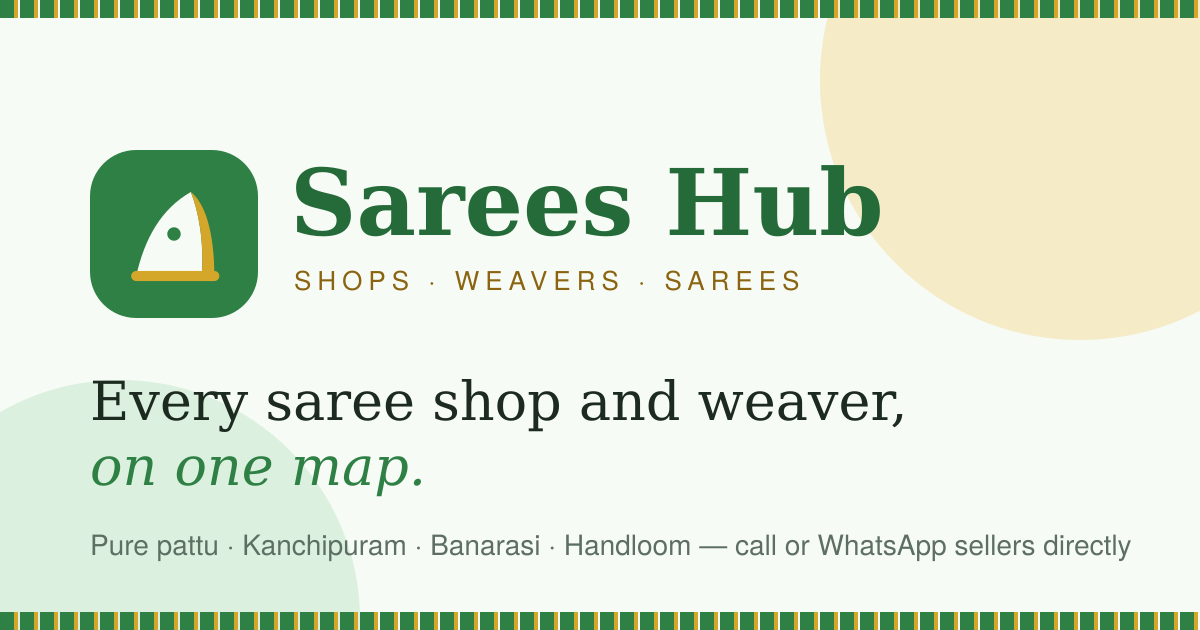
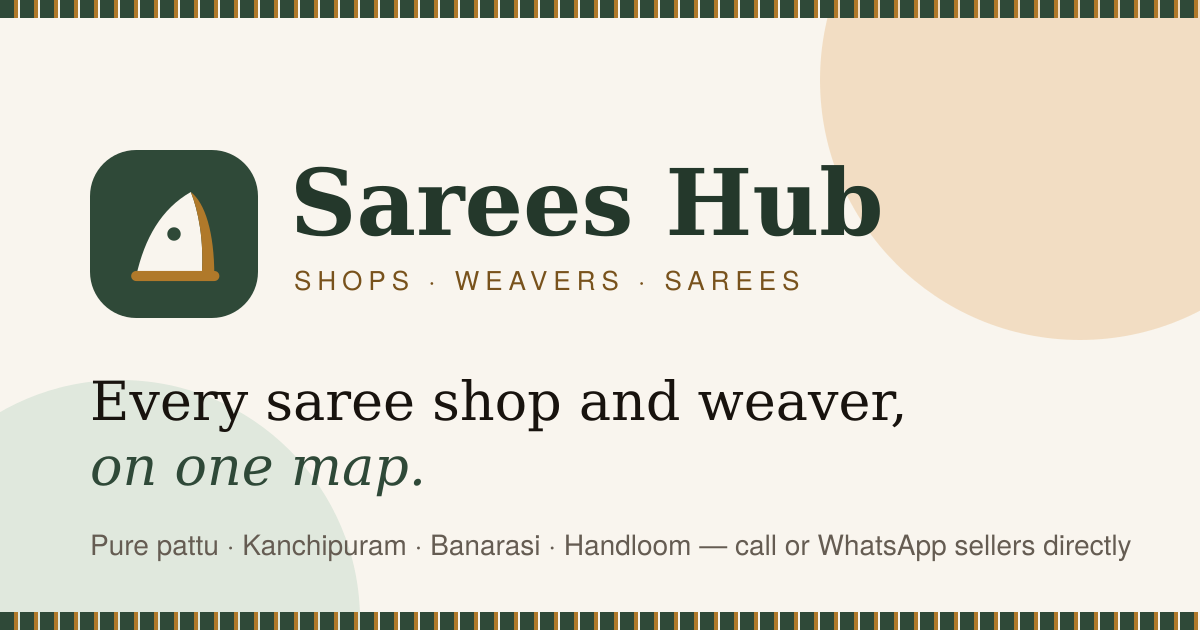
Use the original Sarees Hub colours: paper, ink header, zari gold, forest green
Claude-Session: https://claude.ai/code/session_01Cak13G2zKg7fVSXKVqJPa3

diff --git a/src/components/islands/MapExplorer.tsx b/src/components/islands/MapExplorer.tsx
@@ -178,11 +178,11 @@ export default function MapExplorer() {
           source: "shops",
           filter: ["has", "point_count"],
           paint: {
-            "circle-color": "#2f8045",
+            "circle-color": "#2f4938",
             "circle-opacity": 0.9,
             "circle-radius": ["step", ["get", "point_count"], 18, 10, 24, 50, 32],
             "circle-stroke-width": 3,
-            "circle-stroke-color": "#f0cf74",
+            "circle-stroke-color": "#e6b374",
           },
         });
         map.addLayer({
@@ -191,7 +191,7 @@ export default function MapExplorer() {
           source: "shops",
           filter: ["has", "point_count"],
           layout: { "text-field": ["get", "point_count_abbreviated"], "text-size": 13, "text-font": ["Noto Sans Bold"] },
-          paint: { "text-color": "#f7fbf5" },
+          paint: { "text-color": "#f9f5ee" },
         });
         map.addLayer({
           id: "shop-points",
@@ -199,7 +199,7 @@ export default function MapExplorer() {
           source: "shops",
           filter: ["!", ["has", "point_count"]],
           paint: {
-            "circle-color": ["case", ["==", ["get", "featured"], 1], "#d4a62a", "#2f8045"],
+            "circle-color": ["case", ["==", ["get", "featured"], 1], "#b0792a", "#2f4938"],
             "circle-radius": ["interpolate", ["linear"], ["zoom"], 5, 6, 14, 10],
             "circle-stroke-width": 2.5,
             "circle-stroke-color": "#ffffff",
@@ -210,7 +210,7 @@ export default function MapExplorer() {
           type: "circle",
           source: "shops",
           filter: ["==", ["get", "id"], ""],
-          paint: { "circle-color": "rgba(0,0,0,0)", "circle-radius": 18, "circle-stroke-width": 3, "circle-stroke-color": "#d4a62a" },
+          paint: { "circle-color": "rgba(0,0,0,0)", "circle-radius": 18, "circle-stroke-width": 3, "circle-stroke-color": "#b0792a" },
         });
         map.addLayer({
           id: "shop-labels",
@@ -219,7 +219,7 @@ export default function MapExplorer() {
           minzoom: 12.5,
           filter: ["!", ["has", "point_count"]],
           layout: { "text-field": ["get", "name"], "text-size": 12, "text-offset": [0, 1.3], "text-anchor": "top", "text-font": ["Noto Sans Bold"], "text-optional": true },
-          paint: { "text-color": "#1a4d29", "text-halo-color": "#fff", "text-halo-width": 1.5 },
+          paint: { "text-color": "#17261c", "text-halo-color": "#fff", "text-halo-width": 1.5 },
         });
 
         map.on("click", "clusters", async (e) => {
@@ -483,11 +483,11 @@ function popupHtml(s: ShopCard) {
   return `
     ${img ? `<img src="${img}" alt="" style="width:100%;height:110px;object-fit:cover;border-radius:14px 14px 0 0" />` : ""}
     <div style="padding:10px 12px 12px">
-      <div style="font-size:11px;font-weight:600;color:#8a6410;text-transform:uppercase;letter-spacing:.04em">${esc(kindLabel(s.kind))}</div>
-      <a href="/shops/${encodeURIComponent(s.slug)}" style="display:block;font-family:Georgia,serif;font-size:17px;line-height:1.2;color:#1c2a20;margin-top:2px">${esc(s.name)}</a>
-      <div style="font-size:12px;color:#5d6e62;margin-top:2px">${esc(placeLine(s))}${s.distance_km != null ? ` · ${formatKm(s.distance_km)}` : ""}</div>
+      <div style="font-size:11px;font-weight:600;color:#78521c;text-transform:uppercase;letter-spacing:.04em">${esc(kindLabel(s.kind))}</div>
+      <a href="/shops/${encodeURIComponent(s.slug)}" style="display:block;font-family:Georgia,serif;font-size:17px;line-height:1.2;color:#18130e;margin-top:2px">${esc(s.name)}</a>
+      <div style="font-size:12px;color:#655c52;margin-top:2px">${esc(placeLine(s))}${s.distance_km != null ? ` · ${formatKm(s.distance_km)}` : ""}</div>
       <div style="font-size:12px;margin-top:4px">${s.rating_count ? `★ ${Number(s.rating_avg).toFixed(1)} (${s.rating_count})` : "New listing"}</div>
-      <a href="/shops/${encodeURIComponent(s.slug)}" style="display:block;margin-top:8px;text-align:center;background:#2f8045;color:#fff;border-radius:10px;padding:7px;font-size:13px;font-weight:600">View shop & sarees</a>
+      <a href="/shops/${encodeURIComponent(s.slug)}" style="display:block;margin-top:8px;text-align:center;background:#2f4938;color:#fff;border-radius:10px;padding:7px;font-size:13px;font-weight:600">View shop & sarees</a>
     </div>`;
 }
 

diff --git a/src/styles/global.css b/src/styles/global.css
@@ -1,36 +1,36 @@
 @import "tailwindcss";
 
 @theme {
-  /* Light-green palette: leaf green brand, temple-gold zari accent, mint-tinted background */
-  --color-brand-50: #f0f9f1;
-  --color-brand-100: #dcf1df;
-  --color-brand-200: #b9e2c0;
-  --color-brand-500: #4cae63;
-  --color-brand-600: #3a9a52;
-  --color-brand-700: #2f8045;
-  --color-brand-800: #2f8045;
-  --color-brand-900: #1a4d29;
-  --color-zari-100: #fcf2d8;
-  --color-zari-300: #f0cf74;
-  --color-zari-500: #d4a62a;
-  --color-zari-600: #b7871a;
-  --color-zari-700: #8a6410;
-  --color-peacock-50: #e4f3f2;
-  --color-peacock-500: #0f7c78;
-  --color-peacock-700: #0b5654;
-  --color-cream: #f7fbf5;
-  --color-sand: #eaf4e6;
-  --color-line: #d6e7d1;
-  --color-ink: #1c2a20;
-  --color-muted: #5d6e62;
-  --color-leaf: #0f6e64;
-  --color-leaf-50: #e4f3f0;
+  /* Colours from the original Sarees Hub (Lovable) "Woven counter" design: paper, ink, zari gold, forest green */
+  --color-brand-50: #eff8f2;
+  --color-brand-100: #ddede2;
+  --color-brand-200: #c0d8c7;
+  --color-brand-500: #557c62;
+  --color-brand-600: #40614b;
+  --color-brand-700: #2f4938;
+  --color-brand-800: #24382b;
+  --color-brand-900: #17261c;
+  --color-zari-100: #f7ecd6;
+  --color-zari-300: #e6b374;
+  --color-zari-500: #b0792a;
+  --color-zari-600: #956725;
+  --color-zari-700: #78521c;
+  --color-peacock-50: #eff8f2;
+  --color-peacock-500: #557c62;
+  --color-peacock-700: #2f4938;
+  --color-cream: #f9f5ee;
+  --color-sand: #f0ebdf;
+  --color-line: #e3dccd;
+  --color-ink: #18130e;
+  --color-muted: #655c52;
+  --color-leaf: #40614b;
+  --color-leaf-50: #eff8f2;
 
   --font-display: "Iowan Old Style", "Palatino Linotype", Palatino, "Book Antiqua", Georgia, ui-serif, serif;
   --font-sans: ui-sans-serif, system-ui, -apple-system, "Segoe UI", Roboto, "Noto Sans", "Helvetica Neue", Arial,
     sans-serif;
 
-  --shadow-card: 0 1px 2px rgb(19 59 32 / 0.06), 0 10px 28px -14px rgb(19 59 32 / 0.22);
+  --shadow-card: 0 1px 2px rgb(24 19 14 / 0.06), 0 10px 28px -14px rgb(24 19 14 / 0.22);
 }
 
 @layer base {

diff --git a/src/components/islands/AccountMenu.tsx b/src/components/islands/AccountMenu.tsx
@@ -12,7 +12,7 @@ export default function AccountMenu() {
     return () => document.removeEventListener("click", close);
   }, []);
 
-  if (!ready) return <div className="h-9 w-9 animate-pulse rounded-full bg-sand" aria-hidden />;
+  if (!ready) return <div className="h-9 w-9 animate-pulse rounded-full bg-white/10" aria-hidden />;
 
   if (!me)
     return (
@@ -27,7 +27,7 @@ export default function AccountMenu() {
       <button
         type="button"
         onClick={() => setOpen((o) => !o)}
-        className="flex items-center gap-2 rounded-full border border-line bg-white p-0.5 pr-2 hover:border-brand-200"
+        className="flex items-center gap-2 rounded-full border border-white/20 bg-white/10 p-0.5 pr-2 text-cream hover:bg-white/15"
         aria-haspopup="menu"
         aria-expanded={open}
       >
@@ -43,7 +43,7 @@ export default function AccountMenu() {
         </span>
       </button>
       {open && (
-        <div role="menu" className="card absolute right-0 z-[60] mt-2 w-60 overflow-hidden p-1 text-sm">
+        <div role="menu" className="card absolute right-0 z-[60] mt-2 w-60 overflow-hidden p-1 text-sm text-ink">
           <div className="border-b border-line px-3 py-2">
             <p className="truncate font-semibold">{me.full_name ?? "Signed in"}</p>
             <p className="truncate text-xs text-muted">{me.email}</p>

diff --git a/src/components/islands/LocationPicker.tsx b/src/components/islands/LocationPicker.tsx
@@ -145,8 +145,8 @@ export default function LocationPicker({ value, onChange, onAddress }: Props) {
         <div className="pointer-events-none absolute left-1/2 top-1/2 z-10 -translate-x-1/2 -translate-y-full">
           <div className={`transition-transform ${moving ? "-translate-y-2" : ""}`}>
             <svg width="40" height="52" viewBox="0 0 30 40" aria-hidden="true">
-              <path d="M15 1C7.3 1 1 7.2 1 14.9 1 25.4 15 39 15 39s14-13.6 14-24.1C29 7.2 22.7 1 15 1z" fill="#2f8045" stroke="#fff" strokeWidth="2" />
-              <circle cx="15" cy="15" r="5.5" fill="#d4a62a" />
+              <path d="M15 1C7.3 1 1 7.2 1 14.9 1 25.4 15 39 15 39s14-13.6 14-24.1C29 7.2 22.7 1 15 1z" fill="#2f4938" stroke="#fff" strokeWidth="2" />
+              <circle cx="15" cy="15" r="5.5" fill="#b0792a" />
             </svg>
           </div>
           <div className="mx-auto h-1.5 w-3 rounded-full bg-black/30" />

diff --git a/src/lib/map.ts b/src/lib/map.ts
@@ -21,11 +21,11 @@ export const INDIA_CENTER: [number, number] = [78.9629, 22.5937];
 export function markerEl(opts: { featured?: boolean; selected?: boolean; label?: string } = {}) {
   const el = document.createElement("div");
   el.className = "sh-pin";
-  const fill = opts.featured ? "#d4a62a" : "#2f8045";
+  const fill = opts.featured ? "#b0792a" : "#2f4938";
   const scale = opts.selected ? 1.25 : 1;
   el.innerHTML = `<svg width="${30 * scale}" height="${40 * scale}" viewBox="0 0 30 40" aria-hidden="true">
     <path d="M15 1C7.3 1 1 7.2 1 14.9 1 25.4 15 39 15 39s14-13.6 14-24.1C29 7.2 22.7 1 15 1z" fill="${fill}" stroke="#fff" stroke-width="2"/>
-    <circle cx="15" cy="15" r="5.5" fill="#f7fbf5"/></svg>`;
+    <circle cx="15" cy="15" r="5.5" fill="#f9f5ee"/></svg>`;
   el.style.cursor = "pointer";
   if (opts.label) el.setAttribute("aria-label", opts.label);
   return el;

diff --git a/src/components/islands/FavoriteButton.tsx b/src/components/islands/FavoriteButton.tsx
@@ -27,7 +27,7 @@ export default function FavoriteButton({ shopId }: { shopId: string }) {
 
   return (
     <button type="button" onClick={toggle} disabled={busy} className="btn-outline" aria-pressed={saved}>
-      <svg viewBox="0 0 24 24" className="h-4 w-4" fill={saved ? "#3f9a55" : "none"} stroke={saved ? "#3f9a55" : "currentColor"} strokeWidth="2">
+      <svg viewBox="0 0 24 24" className="h-4 w-4" fill={saved ? "#557c62" : "none"} stroke={saved ? "#557c62" : "currentColor"} strokeWidth="2">
         <path d="M12 21s-7.5-4.6-9.6-9.2C.9 8.4 3 4.5 6.8 4.5c2.1 0 3.6 1.2 5.2 3 1.6-1.8 3.1-3 5.2-3 3.8 0 5.9 3.9 4.4 7.3C19.5 16.4 12 21 12 21z" />
       </svg>
       {saved ? "Saved" : "Save"}

diff --git a/src/lib/checkout.ts b/src/lib/checkout.ts
@@ -52,7 +52,7 @@ export async function buyPlan(shopId: string, planCode: string, prefill: { name?
       image: `${location.origin}/icons/icon-192.png`,
       prefill,
       notes: { shop_id: shopId, plan_code: planCode },
-      theme: { color: "#2f8045" },
+      theme: { color: "#2f4938" },
       retry: { enabled: true },
       handler: async (resp: RazorpayResponse) => {
         try {

diff --git a/src/lib/config.ts b/src/lib/config.ts
@@ -4,7 +4,7 @@ export const SITE = {
   description:
     "Discover saree shops, handloom weavers, wholesalers and showrooms on a map. Browse pure pattu, semi pattu, Kanchipuram, Banarasi and more — then call, WhatsApp or get directions.",
   locale: "en_IN",
-  themeColor: "#2f8045",
+  themeColor: "#2f4938",
 };
 
 export const SHOP_KINDS = [
